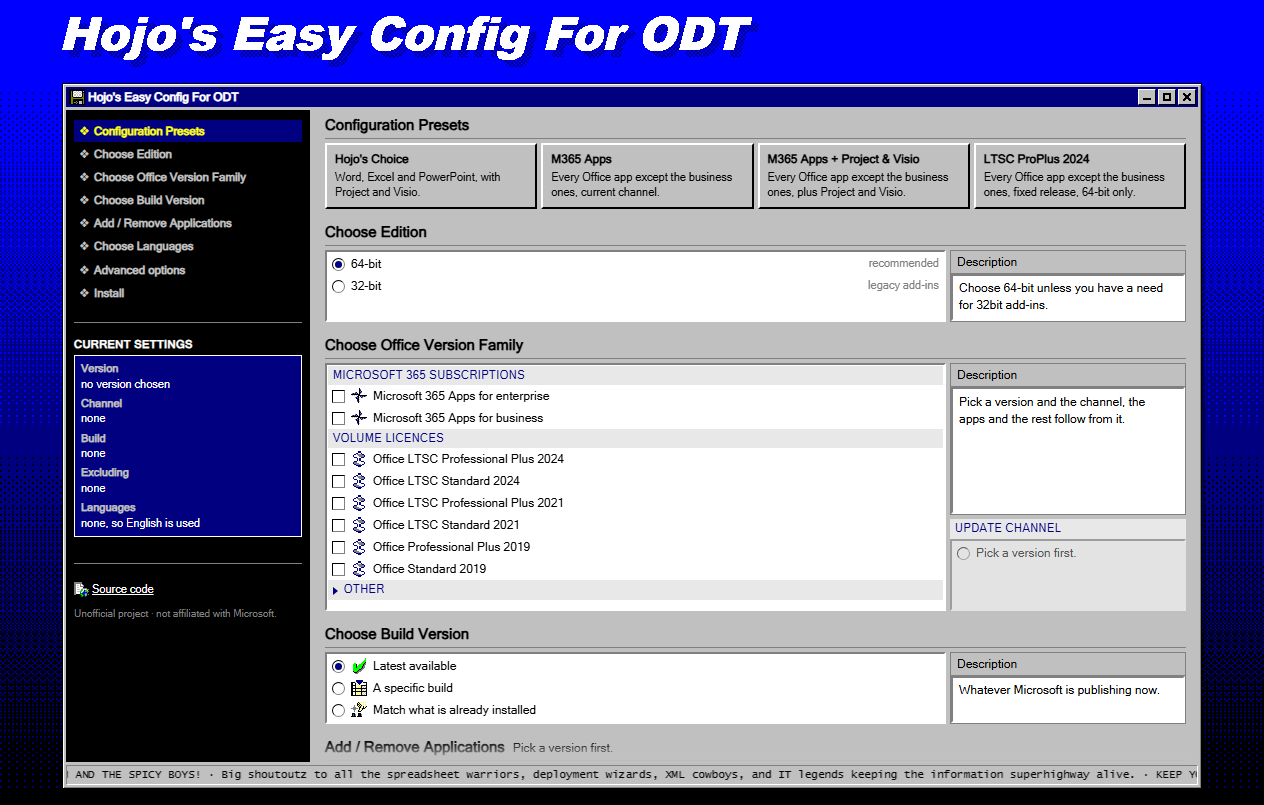
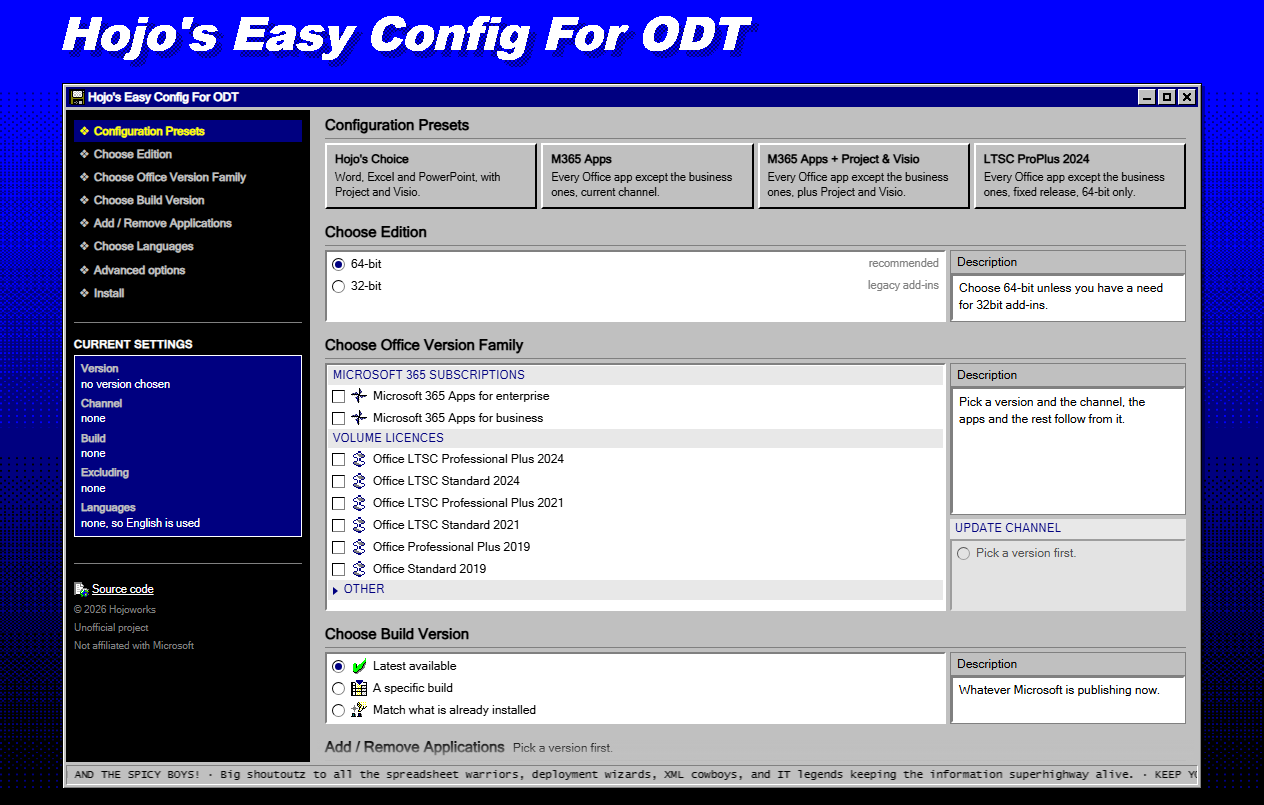
The rail foot carries a 2026 Hojoworks datestamp and the notice on two lines, spaced by the block's own gap rather than by margins that doubled it up

Changed region(s): [[0.0617, 0.7453, 0.216, 0.8075], [0.432, 0.9627, 0.4628, 0.9938]]

diff --git a/site/index.html b/site/index.html
@@ -4,7 +4,7 @@
 <meta charset="utf-8">
 <meta name="viewport" content="width=device-width, initial-scale=1">
 <title>Hojo's Easy Config For ODT</title>
-<meta name="description" content="A Windows 9x-style setup screen that writes the Office Deployment Tool's configuration.xml for you, then hands over a one-line PowerShell install command or the XML itself. No activation, no bundled binaries.">
+<meta name="description" content="A Windows 9x-style setup screen that writes the Office Deployment Tool's configuration.xml for you, then hands over a one-line PowerShell install command or the XML itself.">
 <link rel="canonical" href="https://hojoworks.github.io/odt-ps/">
 <meta name="theme-color" content="#000080">
 <link rel="icon" type="image/svg+xml" href="favicon.svg">
@@ -16,7 +16,7 @@
 <meta property="og:site_name" content="odt-ps">
 <meta property="og:locale" content="en_GB">
 <meta property="og:title" content="Hojo's Easy Config For ODT">
-<meta property="og:description" content="A Windows 9x-style setup screen that writes the Office Deployment Tool's configuration.xml for you, then hands over a one-line PowerShell install command or the XML itself. No activation, no bundled binaries.">
+<meta property="og:description" content="A Windows 9x-style setup screen that writes the Office Deployment Tool's configuration.xml for you, then hands over a one-line PowerShell install command or the XML itself.">
 <meta property="og:url" content="https://hojoworks.github.io/odt-ps/">
 <meta property="og:image" content="https://hojoworks.github.io/odt-ps/og-card.png">
 <meta property="og:image:type" content="image/png">
@@ -25,7 +25,7 @@
 <meta property="og:image:alt" content="The setup screen: a grey Windows 9x window with a version list, an app list, preset buttons and a settings rail, on a blue dithered backdrop.">
 <meta name="twitter:card" content="summary_large_image">
 <meta name="twitter:title" content="Hojo's Easy Config For ODT">
-<meta name="twitter:description" content="A Windows 9x-style setup screen that writes the Office Deployment Tool's configuration.xml for you, then hands over a one-line PowerShell install command or the XML itself. No activation, no bundled binaries.">
+<meta name="twitter:description" content="A Windows 9x-style setup screen that writes the Office Deployment Tool's configuration.xml for you, then hands over a one-line PowerShell install command or the XML itself.">
 <meta name="twitter:image" content="https://hojoworks.github.io/odt-ps/og-card.png">
 <meta name="twitter:image:alt" content="The setup screen: a grey Windows 9x window with a version list, an app list, preset buttons and a settings rail, on a blue dithered backdrop.">
 <link rel="stylesheet" href="backdrop.css">
@@ -1548,7 +1548,9 @@
         </div>
         <div class="rail-block rail-links">
           <a href="https://github.com/hojoworks/odt-ps" target="_blank" rel="noopener"><svg class="icon sm" aria-hidden="true"><use href="#i-link-16"></use></svg>Source code</a>
-          <p class="rail-credit">Unofficial project &middot; not affiliated with Microsoft.</p>
+          <p class="rail-credit">&copy; 2026 Hojoworks</p>
+          <p class="rail-credit">Unofficial project</p>
+          <p class="rail-credit">Not affiliated with Microsoft</p>
         </div>
       </aside>
 

diff --git a/site/rail.css b/site/rail.css
@@ -105,8 +105,11 @@
 .rail-links a { color: #ffffff; }
 .rail-links a:hover { color: #ffff00; }
 
+/* The small print at the foot of the rail: the datestamp, then the two notices
+   each on a line of its own. The block's own gap spaces them, so nothing here
+   carries a margin that would double it up. */
 .rail-credit {
-  margin: var(--gap) 0 0;
+  margin: 0;
   color: var(--dark);
   font-size: 10px;
   line-height: 1.3;

diff --git a/README.md b/README.md
@@ -10,28 +10,11 @@ This is an unofficial community tool. It is not affiliated with, or endorsed by,
 
 ![The setup screen](docs/screenshot.png)
 
-## The web page
-
-Nothing is ticked to start with, and nothing is stored. A refresh clears the choices, and the browser is asked to
-warn you first. Untick the version you picked and the page goes back to its untouched state.
-
-Four presets fill the whole form in: **Hojo's Choice**, **M365 Apps**, **M365 Apps + Project & Visio** and
-**LTSC ProPlus 2024**. The first installs Word, Excel and PowerPoint with Project and Visio. The other three install
-everything except the business apps: Teams, both OneDrives, Skype and new Outlook. Everything after that is optional.
-
-No build number, download size or release date is written into the page. Microsoft publishes new ones every month, so
-a figure typed into a web page is stale within weeks. Products, channels, languages and apps live in
-`site/odt-data.js`, where they are easy to correct.
-
 ## Installing
 
 The Install section offers three things.
 
 1. **Automatic Install**, one line that runs the installer with exactly your settings:
-
-   ```powershell
-   $env:ODT_ARGS='-Product O365ProPlusRetail -Languages en-us -ShowWindow -Download -Install -Silent'; irm https://hojoworks.github.io/odt-ps/get.ps1 | iex
-   ```
 
 2. **Manual Install**, a disclosure holding `configuration.xml`, to save or copy, and the Office Deployment Tool
    commands to run yourself.
@@ -69,8 +52,7 @@ parameter and nothing prompts, so the line drops straight into RMM and task sequ
 
 ## What it does not do
 
-No activation, no keys, no KMS emulation and no patching. No bundled binaries, since everything comes from Microsoft
-URLs at run time. No telemetry. Deploying Office is all this does, and activating it needs a licence you own.
+No activation and no bundled binaries. Everything comes from Microsoft URLs at run time. No telemetry. Deploying Office is all this does, and activating it needs a licence you own.
 
 ## If a copy button is blocked
 
